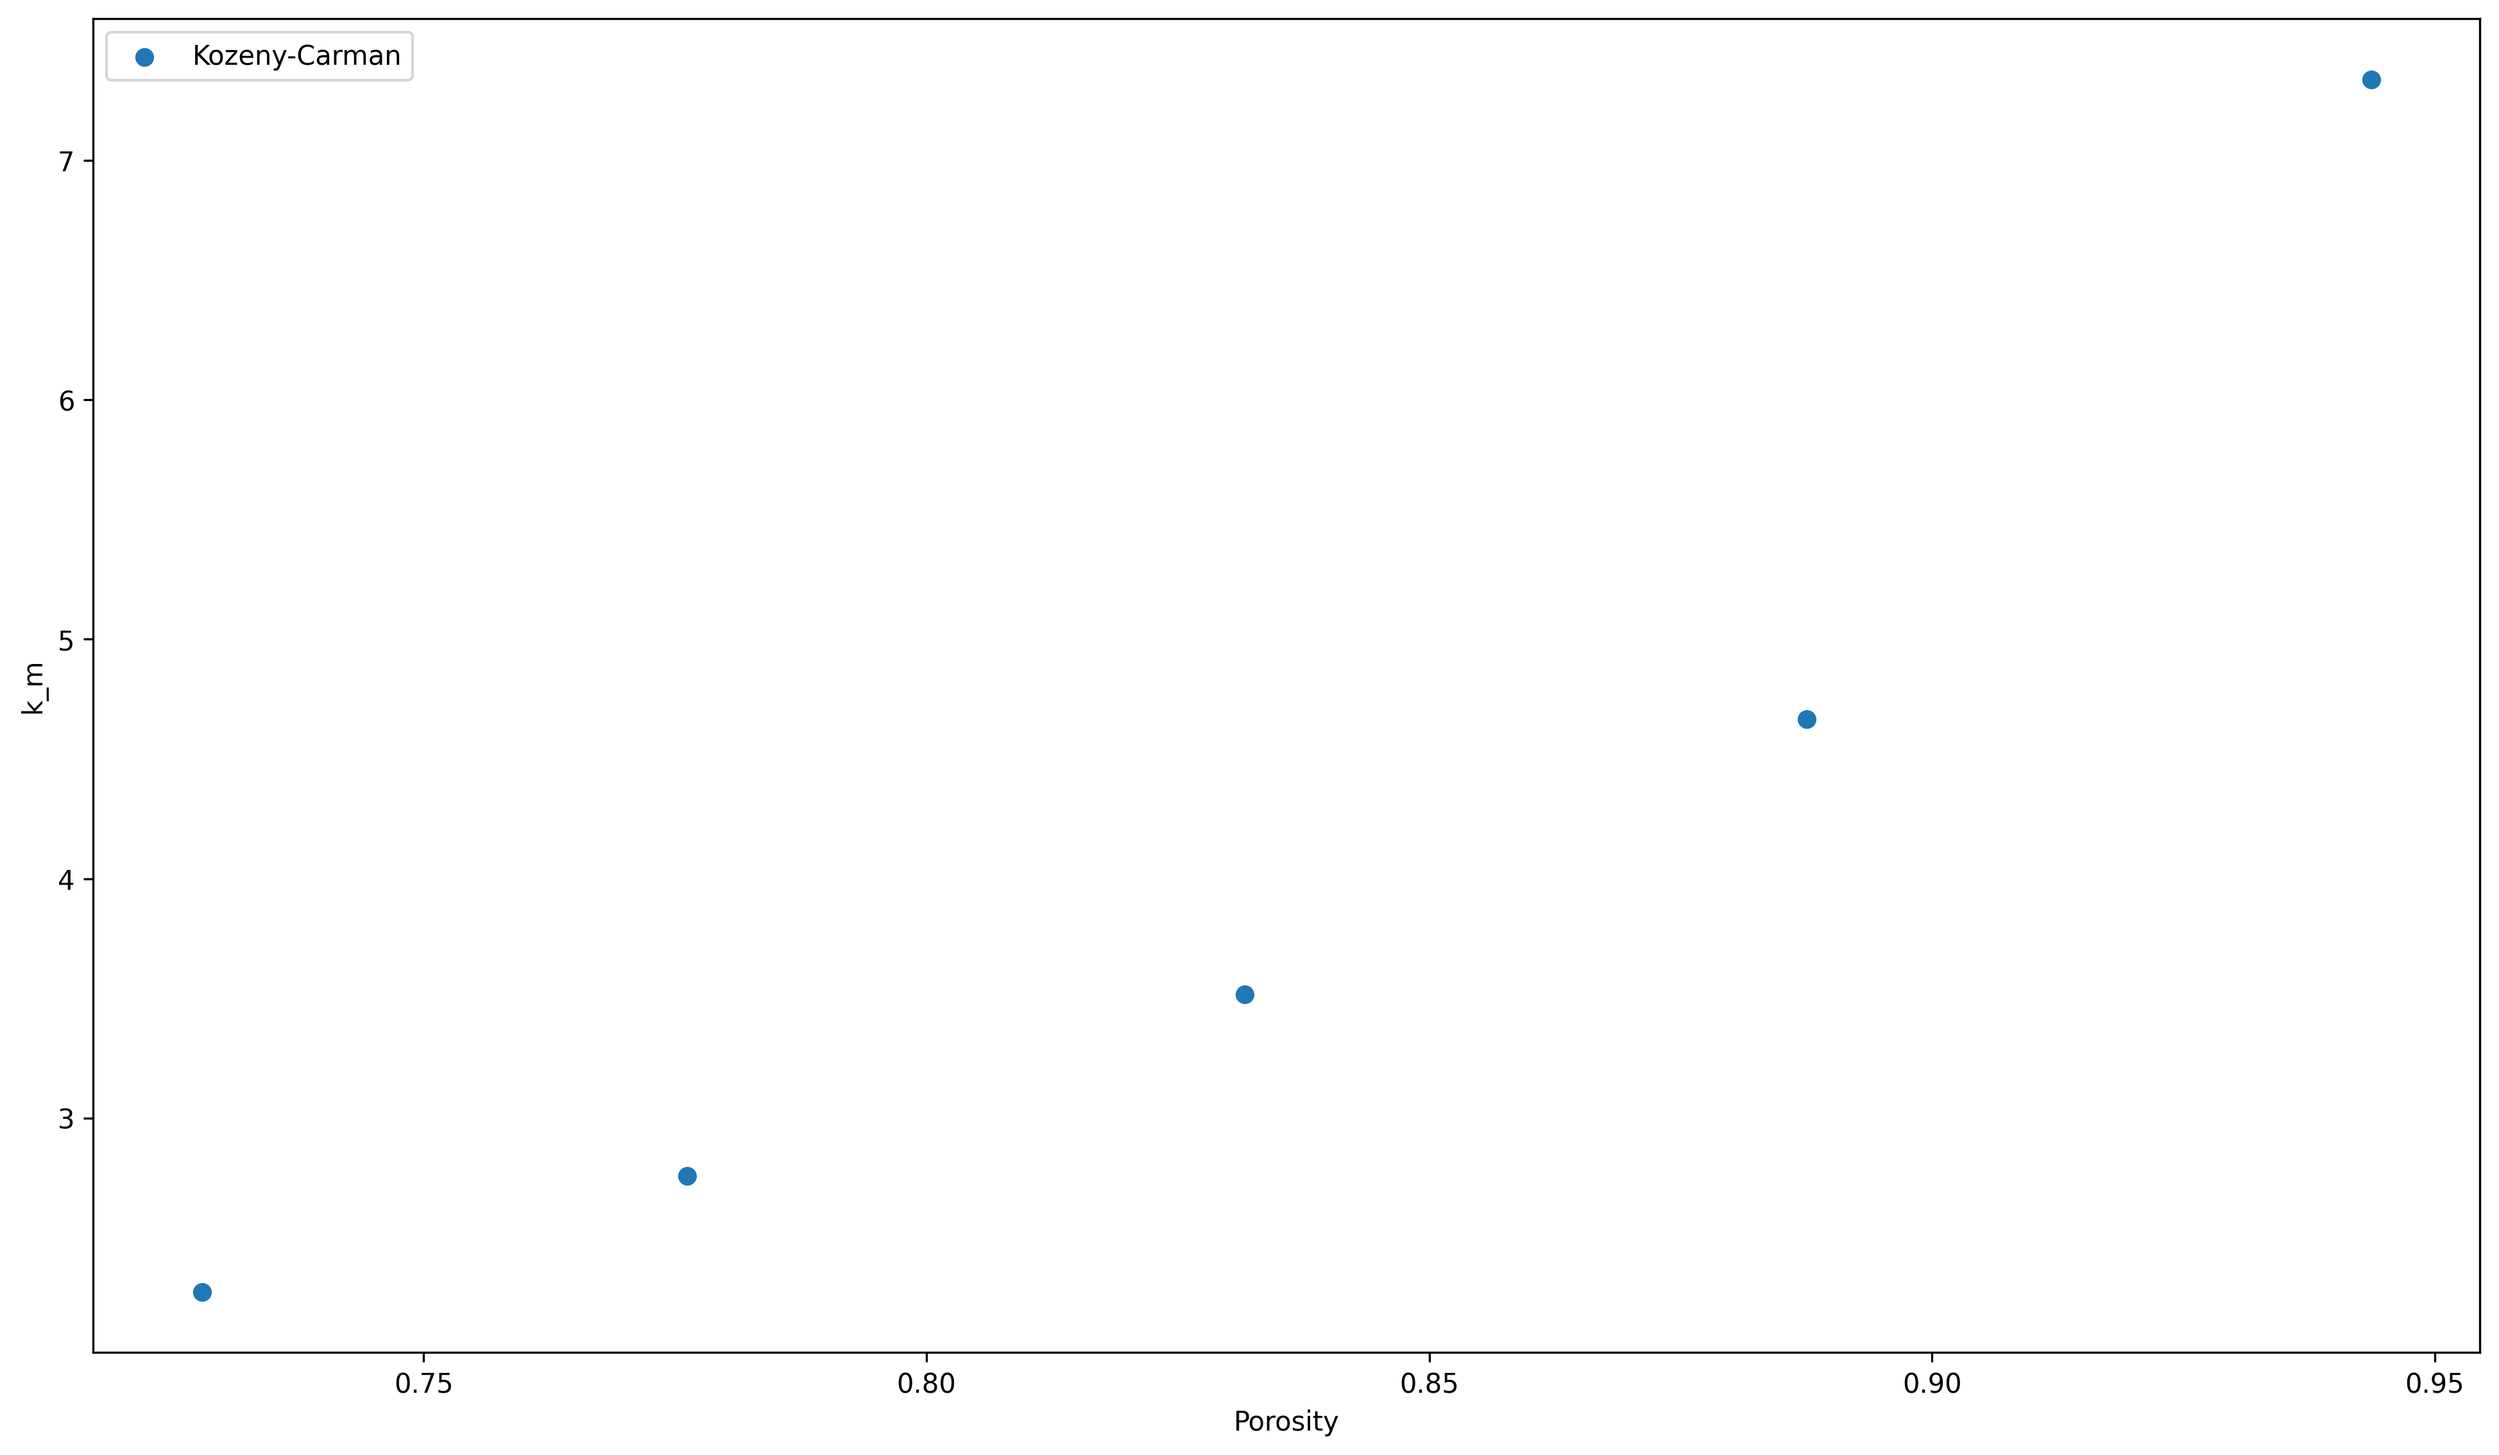
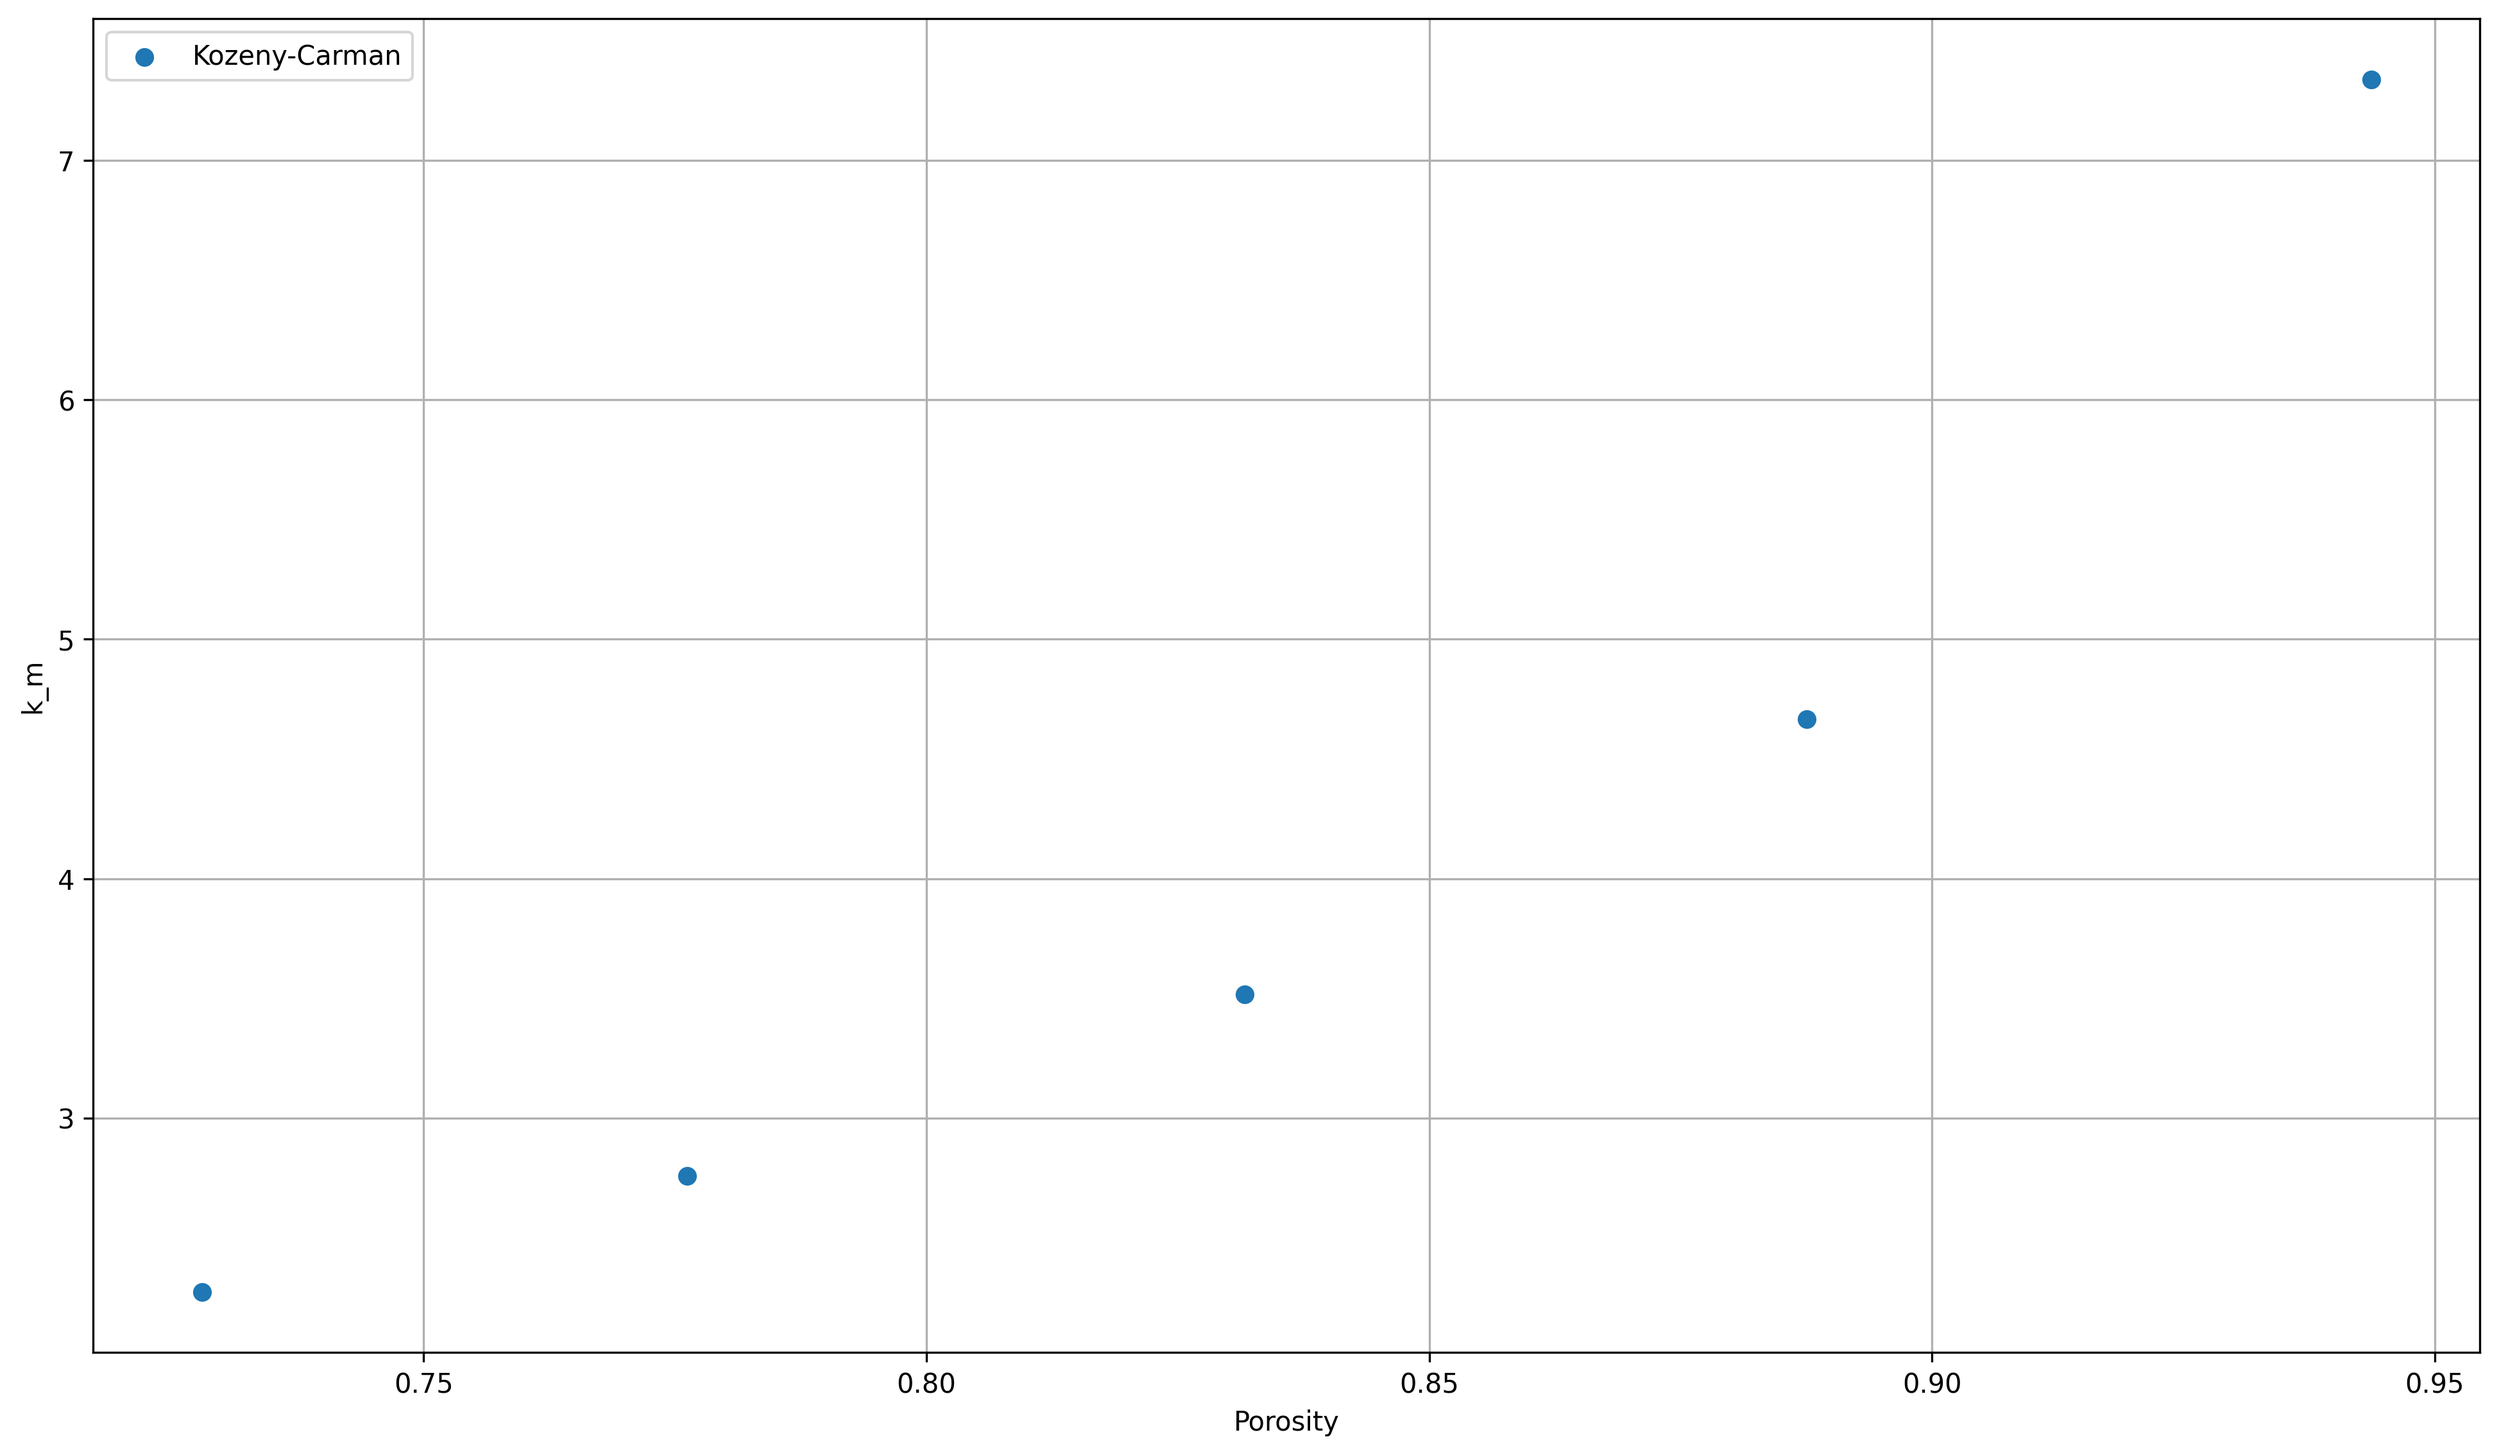
images generation

diff --git a/3d_plots_no_ellipse.py b/3d_plots_no_ellipse.py
@@ -162,7 +162,7 @@ x_grid, y_grid = np.meshgrid(x, y)
 
 X = concated_df[['Porosity', 'Surface']]
 y = concated_df['Euler_mean_vol']
-`linear_model` = LinearRegression()
+linear_model = LinearRegression()
 linear_model.fit(X, y)
 print("M2 = ", linear_model.intercept_, " + ", linear_model.coef_[0], " M0 + ", linear_model.coef_[1], " M1")
 z_grid = linear_model.predict(np.c_[x_grid.ravel(), y_grid.ravel()]).reshape(x_grid.shape)
@@ -380,6 +380,7 @@ ax = fig.add_subplot()
 ax.scatter(average_xdata[0], km_list, label='Kozeny-Carman')
 ax.set_xlabel('Porosity')
 ax.set_ylabel('k_m')
+ax.grid()
 plt.legend()
 plt.savefig(os.path.join(path, 'km_evolution.png'), dpi=300, bbox_inches='tight', pad_inches=0.1)
 plt.show()
@@ -391,6 +392,7 @@ ax.semilogy(average_xdata[0], k_new_evolution, label='fitted')
 ax.semilogy(average_xdata[0], k_star, label='theoretical')
 ax.set_xlabel('Porosity')
 ax.set_ylabel('k')
+ax.grid()
 plt.legend()
 plt.savefig(os.path.join(path, 'fitted_theoretical.png'), dpi=300, bbox_inches='tight', pad_inches=0.1)
 plt.show()

diff --git a/3d_plots.py b/3d_plots.py
@@ -37,7 +37,7 @@ SD=1
 
 ################ READING ALL THE FILES IN THE FOLDER ################
 script_dir = os.path.dirname(__file__)
-sub_path = 'Threshold_homogenous_diamater_wide_RCP'
+sub_path = 'Threshold_homogenous_diamater_small_RCP'
 path = os.path.join(script_dir, sub_path)
 variance_path=os.path.join(script_dir, 'Summaries', sub_path)
 # all_files = glob.glob(os.path.join(path, "*0.300*.csv"))
@@ -401,6 +401,7 @@ ax = fig.add_subplot()
 ax.scatter(average_xdata[0], km_list, label='Kozeny-Carman')
 ax.set_xlabel('Porosity')
 ax.set_ylabel('k_m')
+ax.grid()
 plt.legend()
 plt.savefig(os.path.join(path, 'km_evolution.png'), dpi=300, bbox_inches='tight', pad_inches=0.1)
 plt.show()
@@ -412,6 +413,7 @@ ax.semilogy(average_xdata[0], k_new_evolution, label='fitted')
 ax.semilogy(average_xdata[0], k_star, label='theoretical')
 ax.set_xlabel('Porosity')
 ax.set_ylabel('k')
+ax.grid()   
 plt.legend()
 plt.savefig(os.path.join(path, 'fitted_theoretical.png'), dpi=300, bbox_inches='tight', pad_inches=0.1)
 plt.show()
